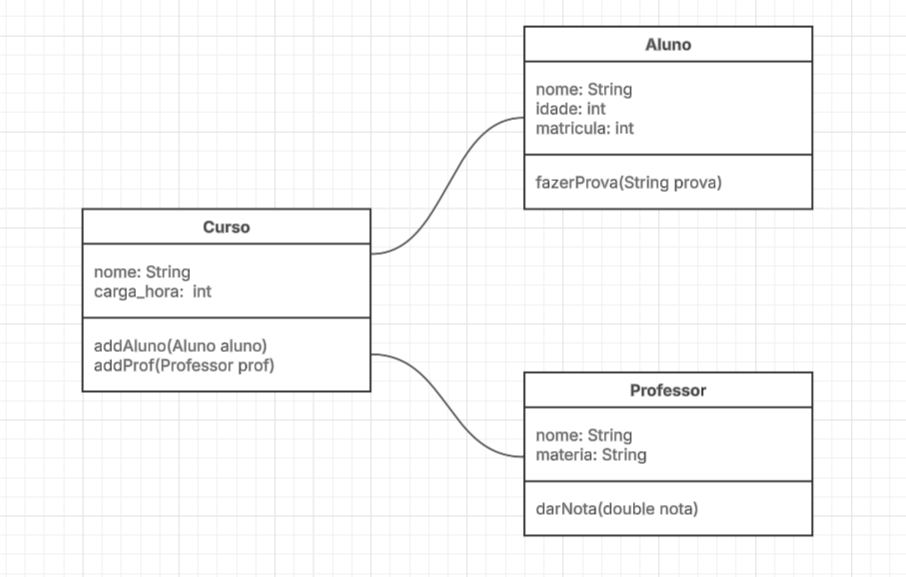
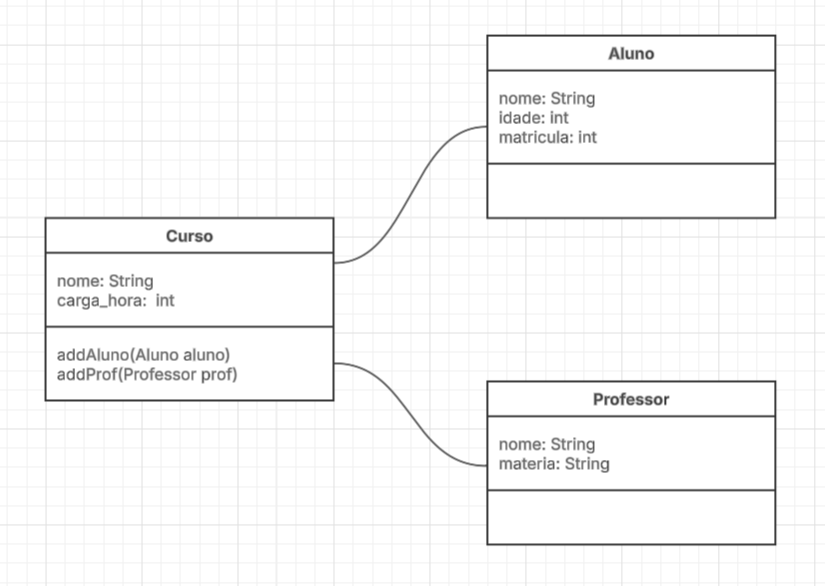
add curso-exemplo

diff --git a/engenhariadesoftware/curso-exemplo/src/main/java/Aluno.java b/engenhariadesoftware/curso-exemplo/src/main/java/Aluno.java
@@ -1,0 +1,30 @@
+public class Aluno {
+    private String nome;
+    private int idade;
+    private int matricula;
+
+    public Aluno(String nome, int idade, int matricula) {
+        this.nome = nome;
+        this.idade = idade;
+        this.matricula = matricula;
+    }
+
+    public String getNome() {
+        return nome;
+    }
+    public void setNome(String nome) {
+        this.nome = nome;
+    }
+    public int getIdade() {
+        return idade;
+    }
+    public void setIdade(int idade) {
+        this.idade = idade;
+    }
+    public int getMatricula() {
+        return matricula;
+    }
+    public void setMatricula(int matricula) {
+        this.matricula = matricula;
+    }
+}

diff --git a/engenhariadesoftware/curso-exemplo/src/main/java/Professor.java b/engenhariadesoftware/curso-exemplo/src/main/java/Professor.java
@@ -1,0 +1,25 @@
+public class Professor {
+	private String nome;
+	private String materia;
+	
+	public Professor(String nome, String materia) {
+	this.nome = nome;
+	this.materia = materia;
+}
+
+	public String getNome() {
+		return nome;
+	}
+
+	public void setNome(String nome) {
+		this.nome = nome;
+	}
+
+	public String getMateria() {
+		return materia;
+	}
+
+	public void setMateria(String materia) {
+		this.materia = materia;
+	}
+}

diff --git a/engenhariadesoftware/curso-exemplo/src/test/java/Teste.java b/engenhariadesoftware/curso-exemplo/src/test/java/Teste.java
@@ -1,0 +1,15 @@
+import static org.junit.jupiter.api.Assertions.*;
+import org.junit.jupiter.api.Test;
+
+import java.util.ArrayList;
+import java.util.List;
+
+class Teste {
+
+    @Test
+    public void test() {
+        Curso curso = new Curso();
+        curso.addAluno(new Aluno("Cauã Mohor", 18, 12345678));
+        curso.addProf(new Professor("Bertoti", "Engenharia de Software"));
+    }
+}

diff --git a/engenhariadesoftware/curso-exemplo/src/main/java/Curso.java b/engenhariadesoftware/curso-exemplo/src/main/java/Curso.java
@@ -1,0 +1,14 @@
+import java.util.List;
+import java.util.LinkedList;
+
+public class Curso {
+    private List<Aluno> alunos = new LinkedList<>();
+    private List<Professor> professors = new LinkedList<>();
+
+    public void addAluno(Aluno aluno) {
+        alunos.add(aluno);
+    }
+    public void addProf(Professor prof) {
+        professors.add(prof);
+    }
+}
